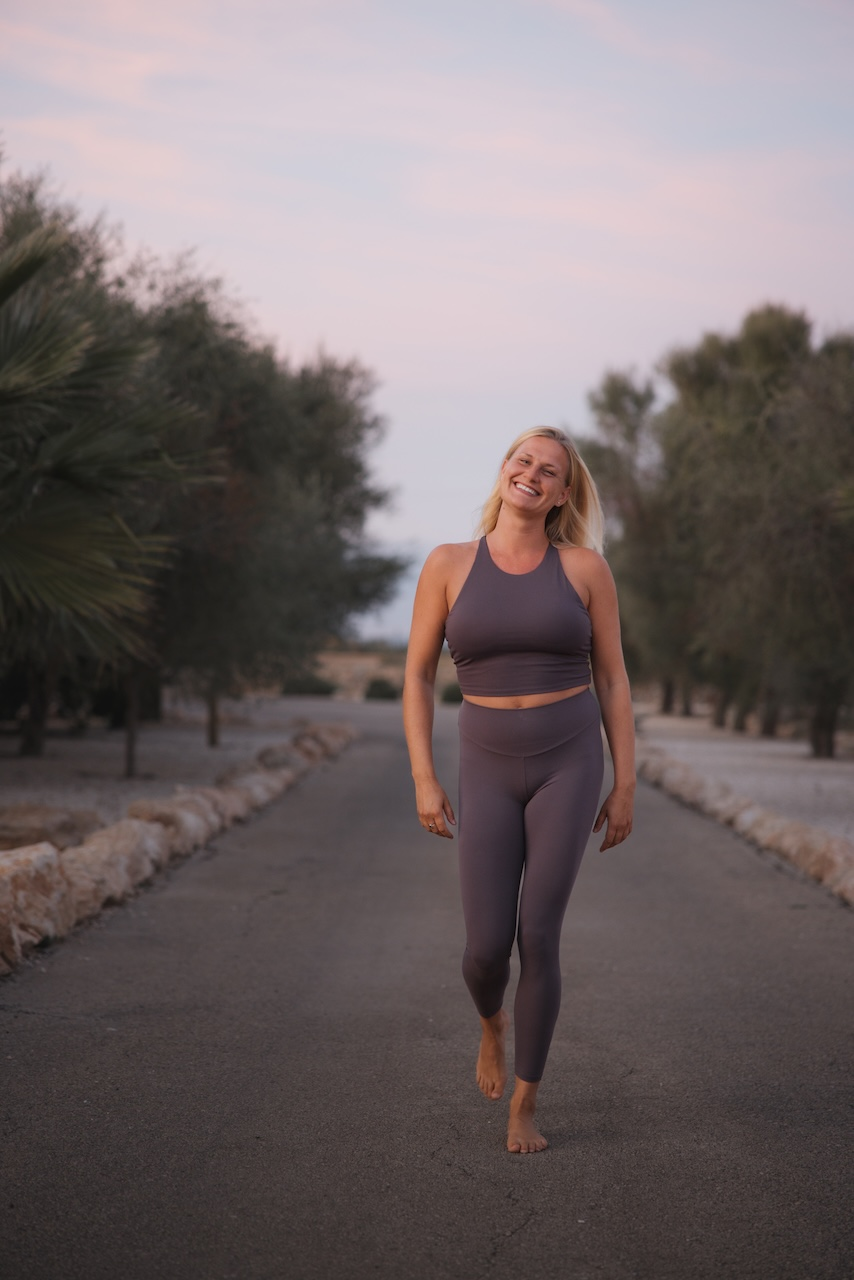
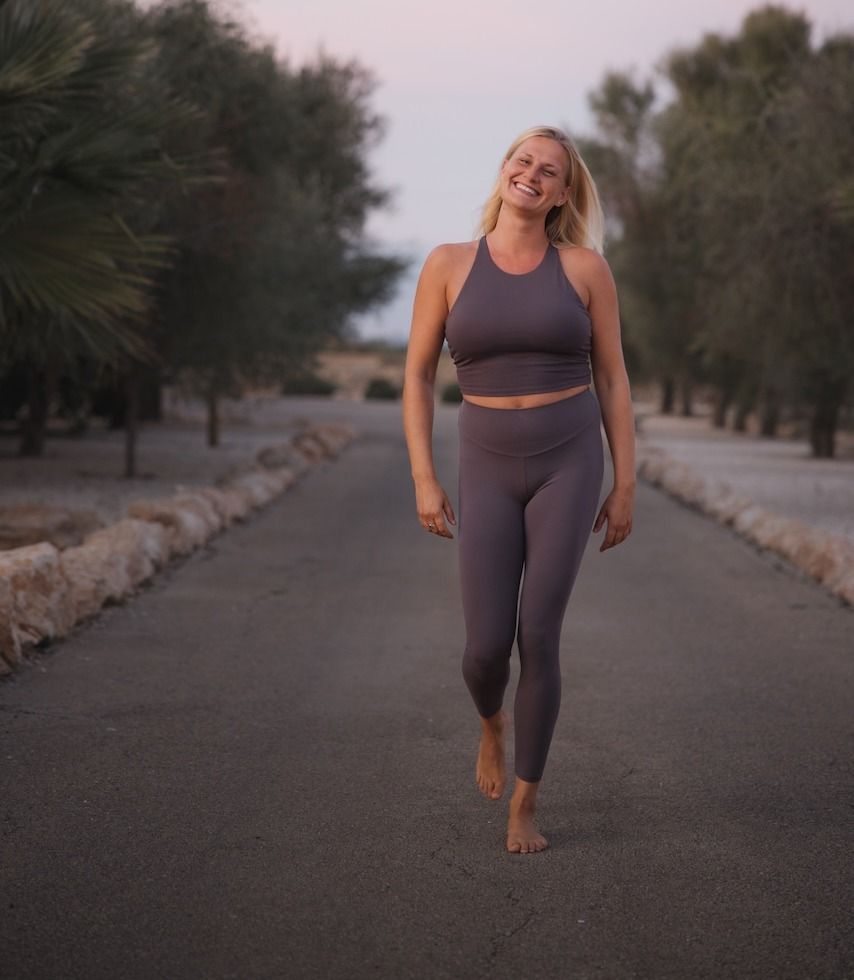
Über mich: Bildausschnitt korrigiert (Füße sichtbar) + neue Achtsamkeit-Sektion
portrait-walk.jpg oben beschnitten, da der automatische Bildausschnitt
sonst die Füße abschnitt (betrifft Startseite und Über-mich-Seite).
Neue Vollbild-Sektion "Ankommen, bevor es losgeht." mit
Meditations-Foto vor dem Footer ergänzt.

diff --git a/ueber-mich.html b/ueber-mich.html
@@ -130,6 +130,22 @@
     </div>
   </section>
 
+  <!-- Third image section -->
+  <section style="background: var(--cream); padding: var(--pad-y) 0;">
+    <div class="container">
+      <div class="about-inner about-inner--fill-right">
+        <div class="about-text">
+          <span class="label">Achtsamkeit</span>
+          <h2>Ankommen, bevor es losgeht.</h2>
+          <p>Ob im Yoga, in der Physiotherapie oder im Alltag: Ich glaube an den Moment, in dem du kurz innehältst und wirklich ankommst. Das ist der Ausgangspunkt für alles, was danach passiert.</p>
+        </div>
+        <div class="about-img-wrap">
+          <image-slot id="ueber-mindfulness" shape="rounded" radius="0" src="uploads/ueber-mich-meditation.jpg" placeholder="Marie beim Meditieren – Foto hier ablegen" style="width:100%;height:100%;display:block;"></image-slot>
+        </div>
+      </div>
+    </div>
+  </section>
+
   <footer class="footer">
     <div class="container">
       <div class="footer-grid">
